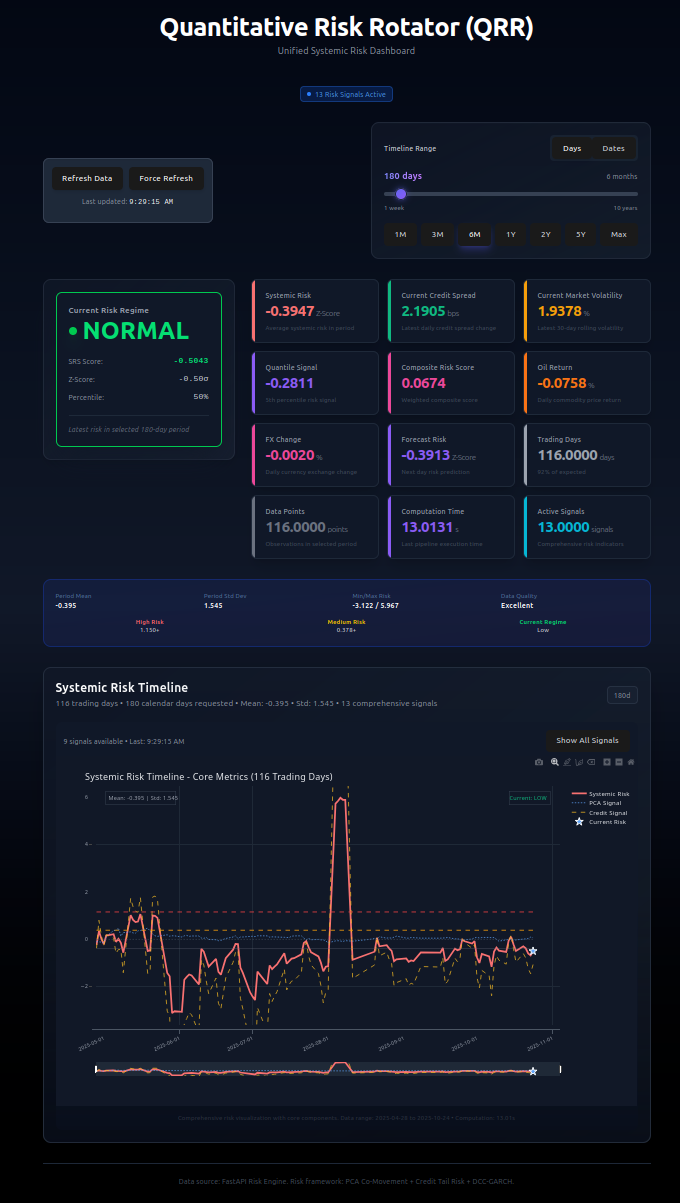
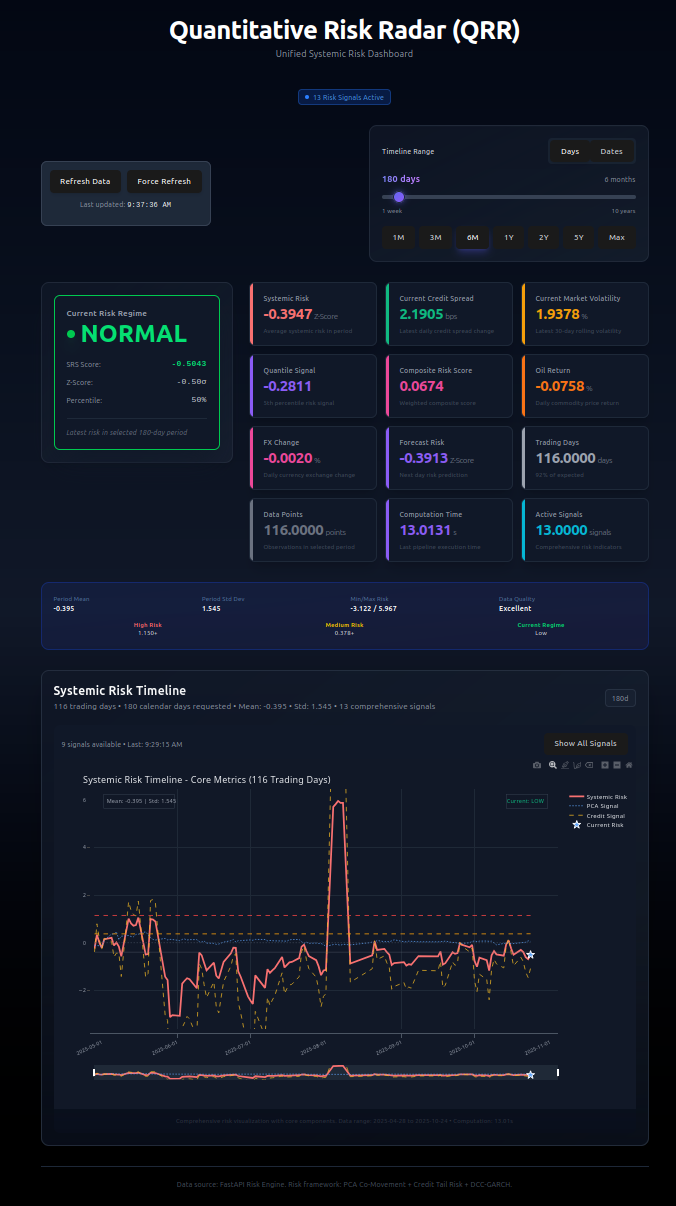
Name fix

diff --git a/frontend/risk-dashboard/src/components/layout/Header.jsx b/frontend/risk-dashboard/src/components/layout/Header.jsx
@@ -4,7 +4,7 @@ export const Header = () => {
   return (
     <header className="pt-6 pb-4">
       <h1 className="text-center text-4xl sm:text-5xl font-extrabold text-white tracking-tight">
-        Quantitative Risk Rotator (QRR)
+        Quantitative Risk Radar (QRR)
       </h1>
       <p className="text-center text-lg text-gray-400 mt-2">
         Unified Systemic Risk Dashboard

diff --git a/README.md b/README.md
@@ -1,6 +1,6 @@
-# Quantitative Risk Rotator (QRR)
+# Quantitative Risk Radaar (QRR)
 
-The **Quantitative Risk Rotator (QRR)** is a **data-driven risk monitoring framework** for systemic risk detection and financial regime analysis. QRR moves beyond static financial ratios and uses dynamic modeling to identify when markets enter high-risk or crisis regimes.
+The **Quantitative Risk Radar (QRR)** is a **data-driven risk monitoring framework** for systemic risk detection and financial regime analysis. QRR moves beyond static financial ratios and uses dynamic modeling to identify when markets enter high-risk or crisis regimes.
 
 It continuously tracks **cross-sector co-movement**, **volatility spillovers**, and **credit stress**, then aggregates these signals into a composite systemic risk index, providing a comprehensive view of market stress.
 
